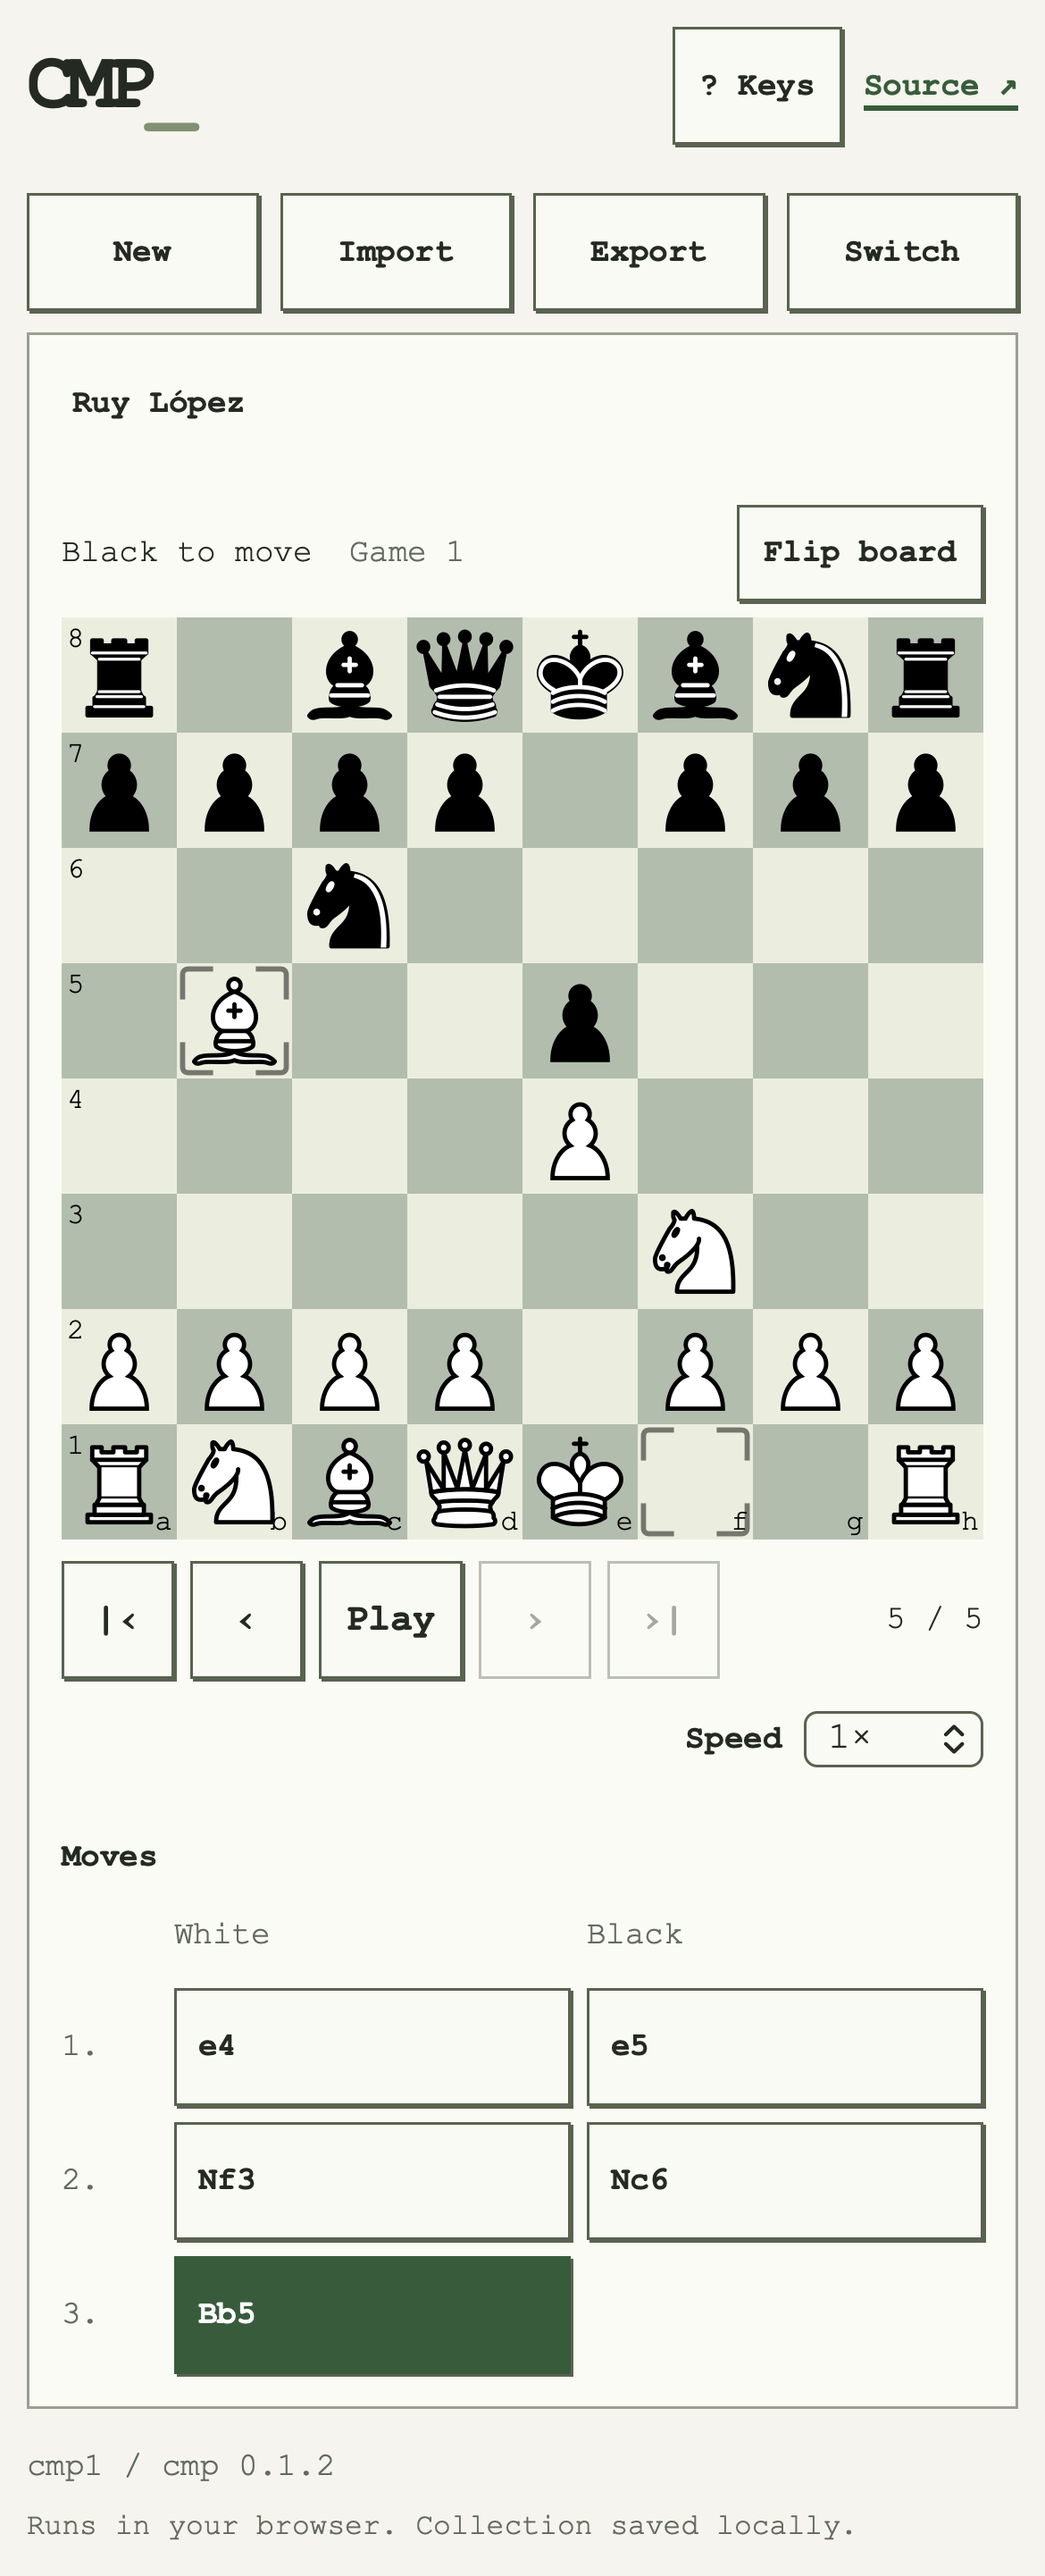
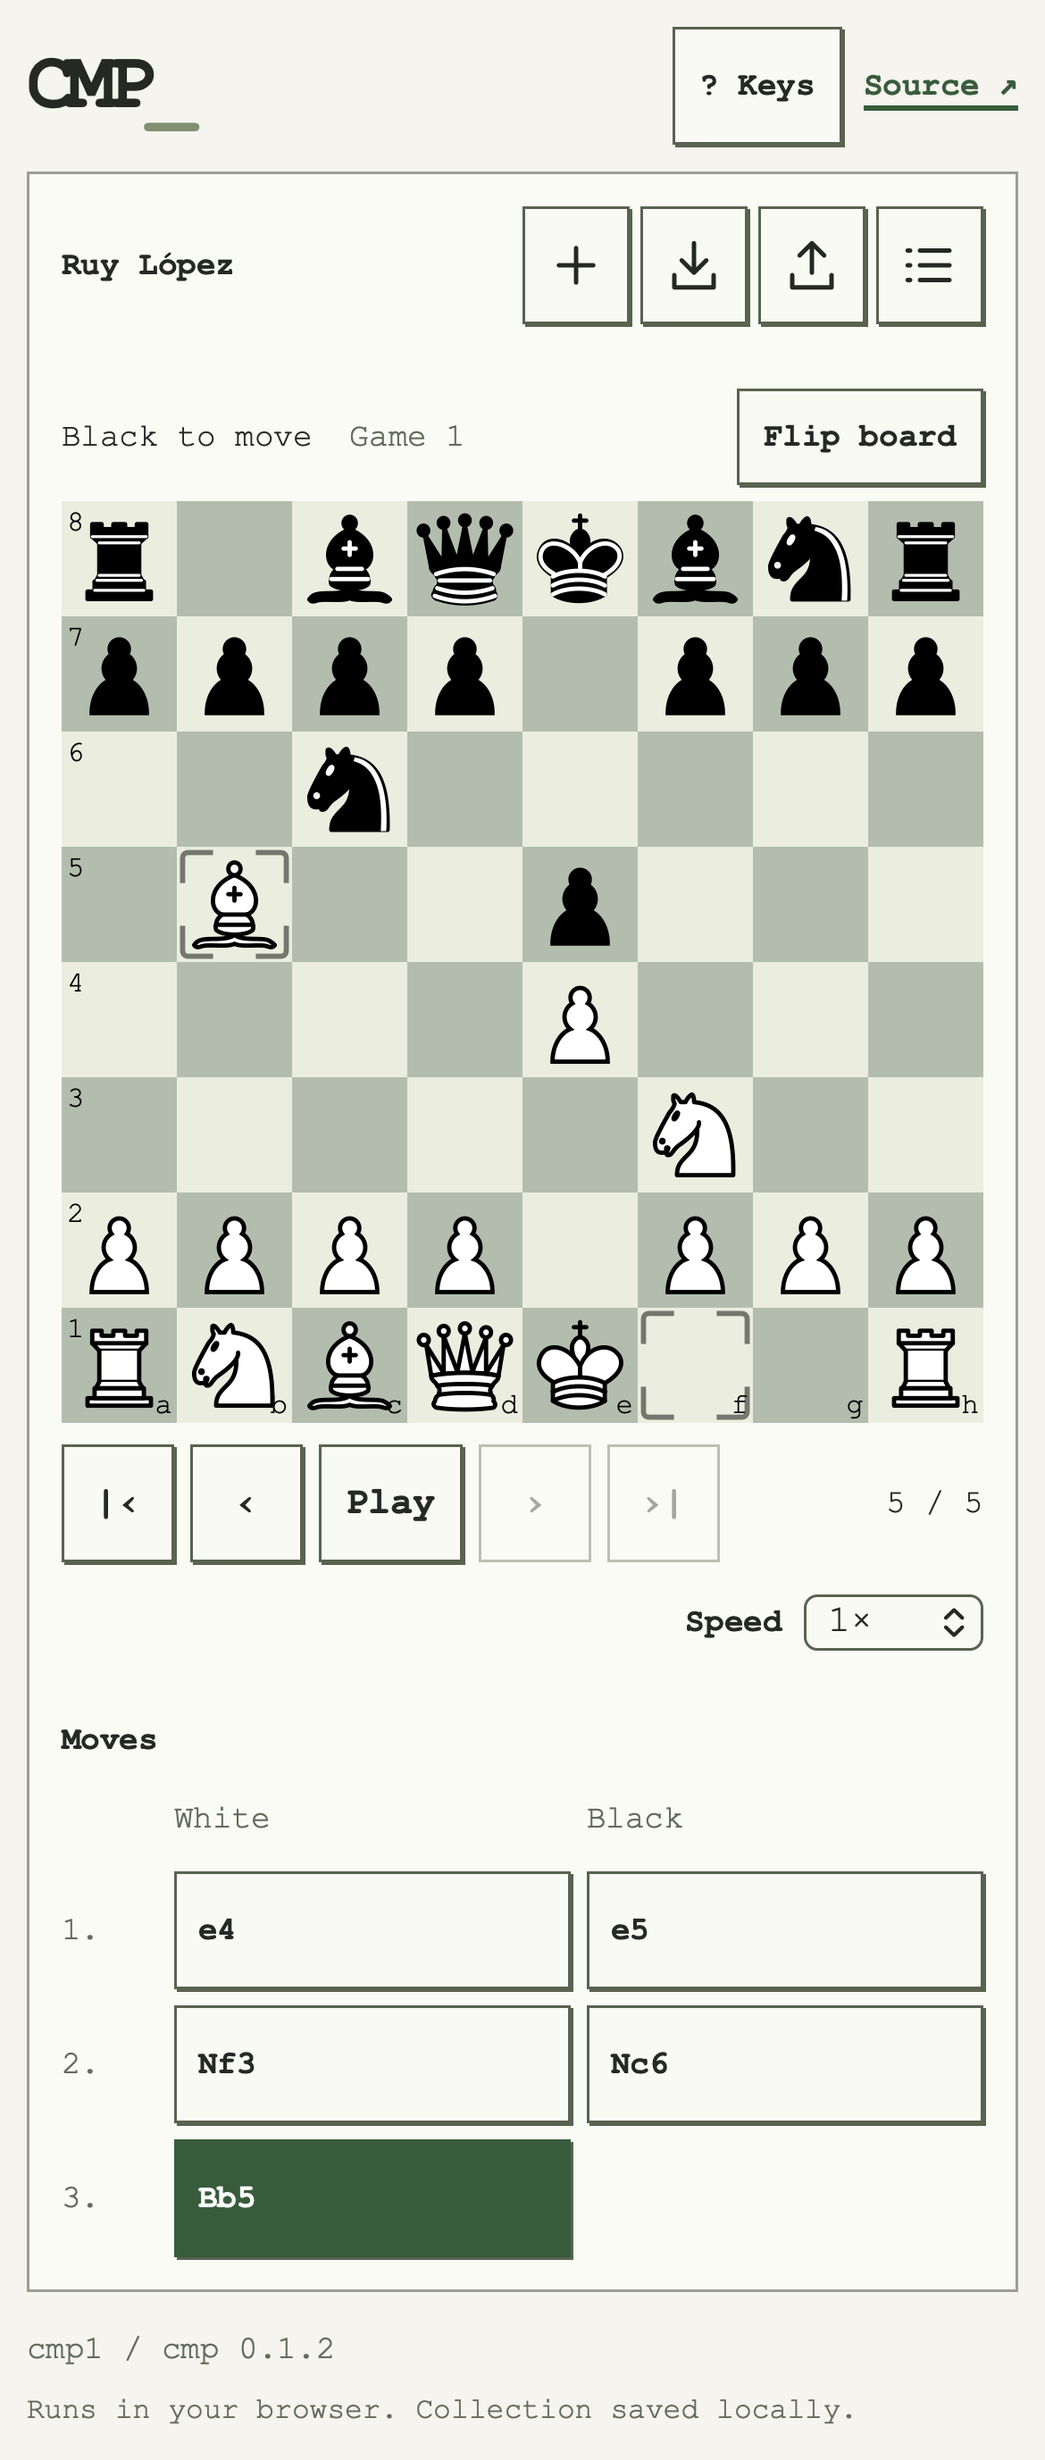
style: integrate mobile actions into the board header

diff --git a/index.html b/index.html
@@ -22,22 +22,36 @@
           <a href="https://github.com/julesora/cmp">Source ↗</a>
         </nav>
       </header>
-      <nav id="mobile-toolbar" aria-label="Sequences"></nav>
       <main id="workbench" class="workbench" aria-label="CMP workbench">
         <aside id="collection" aria-labelledby="list-title">
           <div class="history-title"><h2 id="list-title">Collection</h2></div>
           <div id="collection-actions" class="actions">
-            <button id="clear" aria-haspopup="dialog">New</button>
-            <button id="import" aria-haspopup="dialog">Import</button>
-            <button id="export-collection" aria-haspopup="dialog">Export</button>
-            <button id="switch" aria-haspopup="dialog">Switch</button>
+            <button id="clear" aria-haspopup="dialog" aria-label="New" title="New">
+              <svg class="action-icon" viewBox="0 0 24 24" aria-hidden="true" focusable="false"><path d="M12 5v14M5 12h14" /></svg>
+              <span class="action-label">New</span>
+            </button>
+            <button id="import" aria-haspopup="dialog" aria-label="Import" title="Import">
+              <svg class="action-icon" viewBox="0 0 24 24" aria-hidden="true" focusable="false"><path d="M12 3v12m-5-5 5 5 5-5M4 16v5h16v-5" /></svg>
+              <span class="action-label">Import</span>
+            </button>
+            <button id="export-collection" aria-haspopup="dialog" aria-label="Export" title="Export">
+              <svg class="action-icon" viewBox="0 0 24 24" aria-hidden="true" focusable="false"><path d="M12 15V3m-5 5 5-5 5 5M4 16v5h16v-5" /></svg>
+              <span class="action-label">Export</span>
+            </button>
+            <button id="switch" aria-haspopup="dialog" aria-label="Switch" title="Switch">
+              <svg class="action-icon" viewBox="0 0 24 24" aria-hidden="true" focusable="false"><path d="M8 6h12M8 12h12M8 18h12M3 6h1M3 12h1M3 18h1" /></svg>
+              <span class="action-label">Switch</span>
+            </button>
           </div>
           <p id="list-empty">No saved sequences yet.</p>
           <div id="sequences"></div>
           <p id="collection-status" class="hint" role="status"></p>
         </aside>
         <section id="viewer" aria-label="Sequence viewer">
-          <h2 id="viewer-title">Select a sequence</h2>
+          <div class="viewer-heading">
+            <h2 id="viewer-title">Select a sequence</h2>
+            <nav id="mobile-toolbar" aria-label="Sequence actions"></nav>
+          </div>
           <button id="retry" hidden>Retry</button>
           <p id="status" role="status" aria-live="polite">Connecting to CMP…</p>
           <div id="viewer-content" hidden>

diff --git a/src/style.css b/src/style.css
@@ -705,3 +705,55 @@ summary {
     display: block;
   }
 }
+
+.viewer-heading {
+  display: flex;
+  align-items: center;
+  justify-content: space-between;
+  gap: 12px;
+  padding: 16px;
+}
+.viewer-heading #viewer-title {
+  margin: 0;
+  min-width: 0;
+  overflow-wrap: anywhere;
+}
+.action-icon {
+  display: none;
+  width: 22px;
+  height: 22px;
+  fill: none;
+  stroke: currentColor;
+  stroke-width: 1.8;
+  stroke-linecap: round;
+  stroke-linejoin: round;
+}
+@media (max-width: 780px) {
+  .viewer-heading {
+    gap: 8px;
+    padding: 12px;
+  }
+  #mobile-toolbar {
+    position: static;
+    padding: 0;
+    background: transparent;
+    flex-shrink: 0;
+  }
+  #collection-actions {
+    grid-template-columns: repeat(4, 40px);
+    gap: 4px;
+  }
+  #collection-actions button {
+    display: flex;
+    align-items: center;
+    justify-content: center;
+    min-height: 44px;
+    padding: 0;
+  }
+  #collection-actions .action-icon {
+    display: block;
+  }
+  #collection-actions .action-label {
+    display: none;
+  }
+}

diff --git a/tests/mobile/workspace.spec.js b/tests/mobile/workspace.spec.js
@@ -8,7 +8,10 @@ test.beforeEach(async ({ page }) => {
 
 test('shows a mobile action bar and opens the list with Switch', async ({ page }) => {
   await expect(page.locator('#collection')).not.toBeVisible();
-  await expect(page.locator('#mobile-toolbar button')).toHaveText(['New', 'Import', 'Export', 'Switch']);
+  for (const name of ['New', 'Import', 'Export', 'Switch']) {
+    await expect(page.locator('.viewer-heading').getByRole('button', { name, exact: true })).toBeVisible();
+  }
+  await expect(page.locator('#mobile-toolbar .action-label').first()).not.toBeVisible();
   await page.locator('#switch').tap();
   await expect(page.locator('#collection')).toBeVisible();
   await page.locator('#switch-dialog').getByRole('button', { name: 'Close', exact: true }).tap();

diff --git a/src/collection.js b/src/collection.js
@@ -68,7 +68,6 @@ export function bindCollection(actions) {
   }
 
   function renderExportLabel() {
-    $('export-collection').textContent = 'Export';
     $('export-collection').disabled = locked || !entries.length;
   }
 

diff --git a/README.md b/README.md
@@ -14,7 +14,7 @@ Layout
 ------
 
 The collection stays beside the board on desktop. On phones, New, Import,
-Export and Switch sit above the board; Switch opens the sequence list.
+Export and Switch are icons beside the sequence name; Switch opens the list.
 Moves sit below the board. Selecting a sequence opens it for viewing.
 
 New visitors start with Ruy López, Queen’s Gambit and Sicilian sequences.
